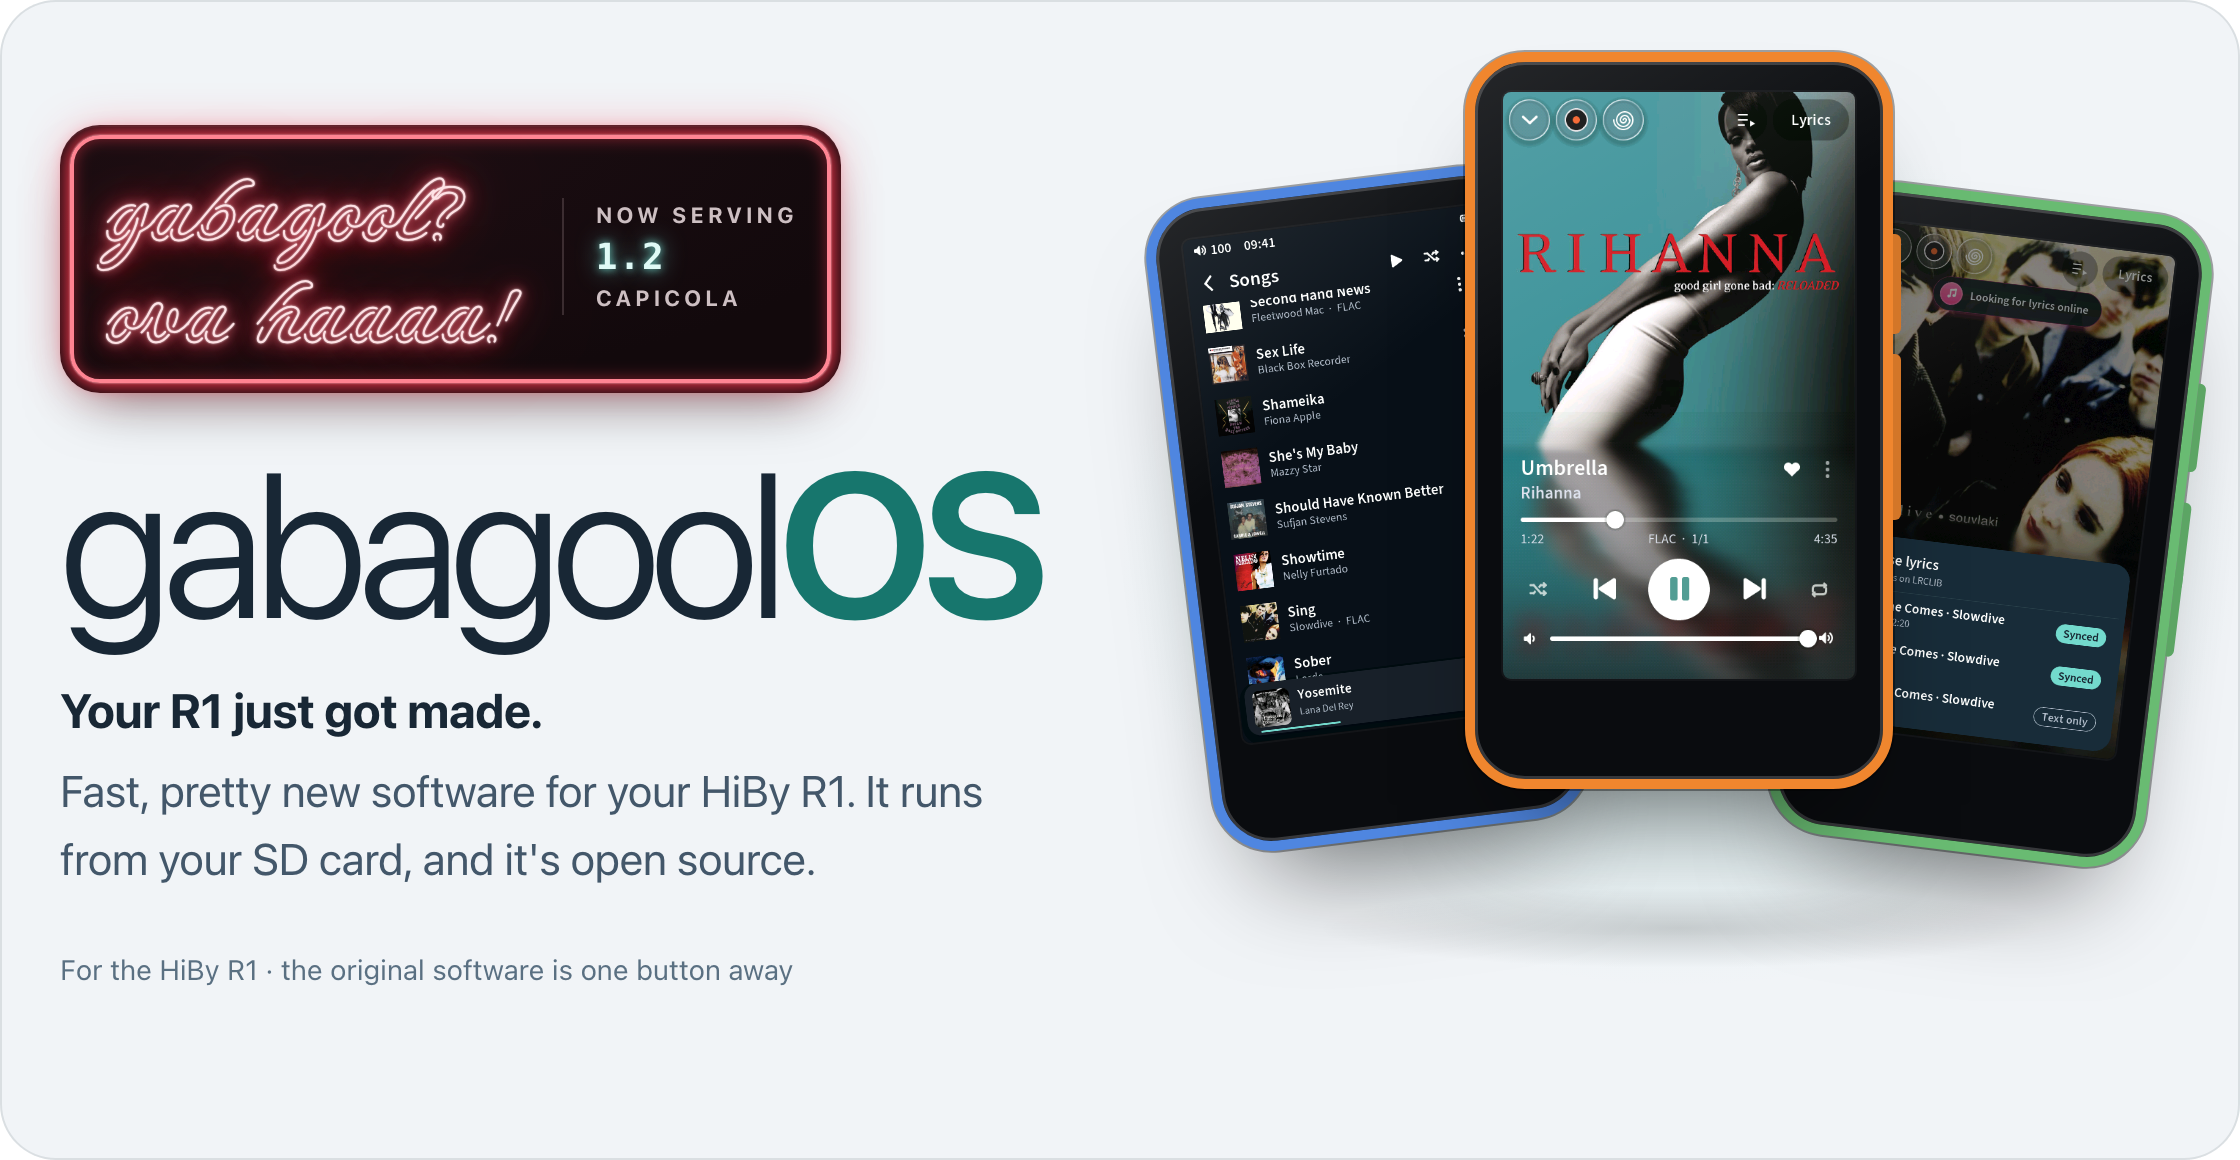
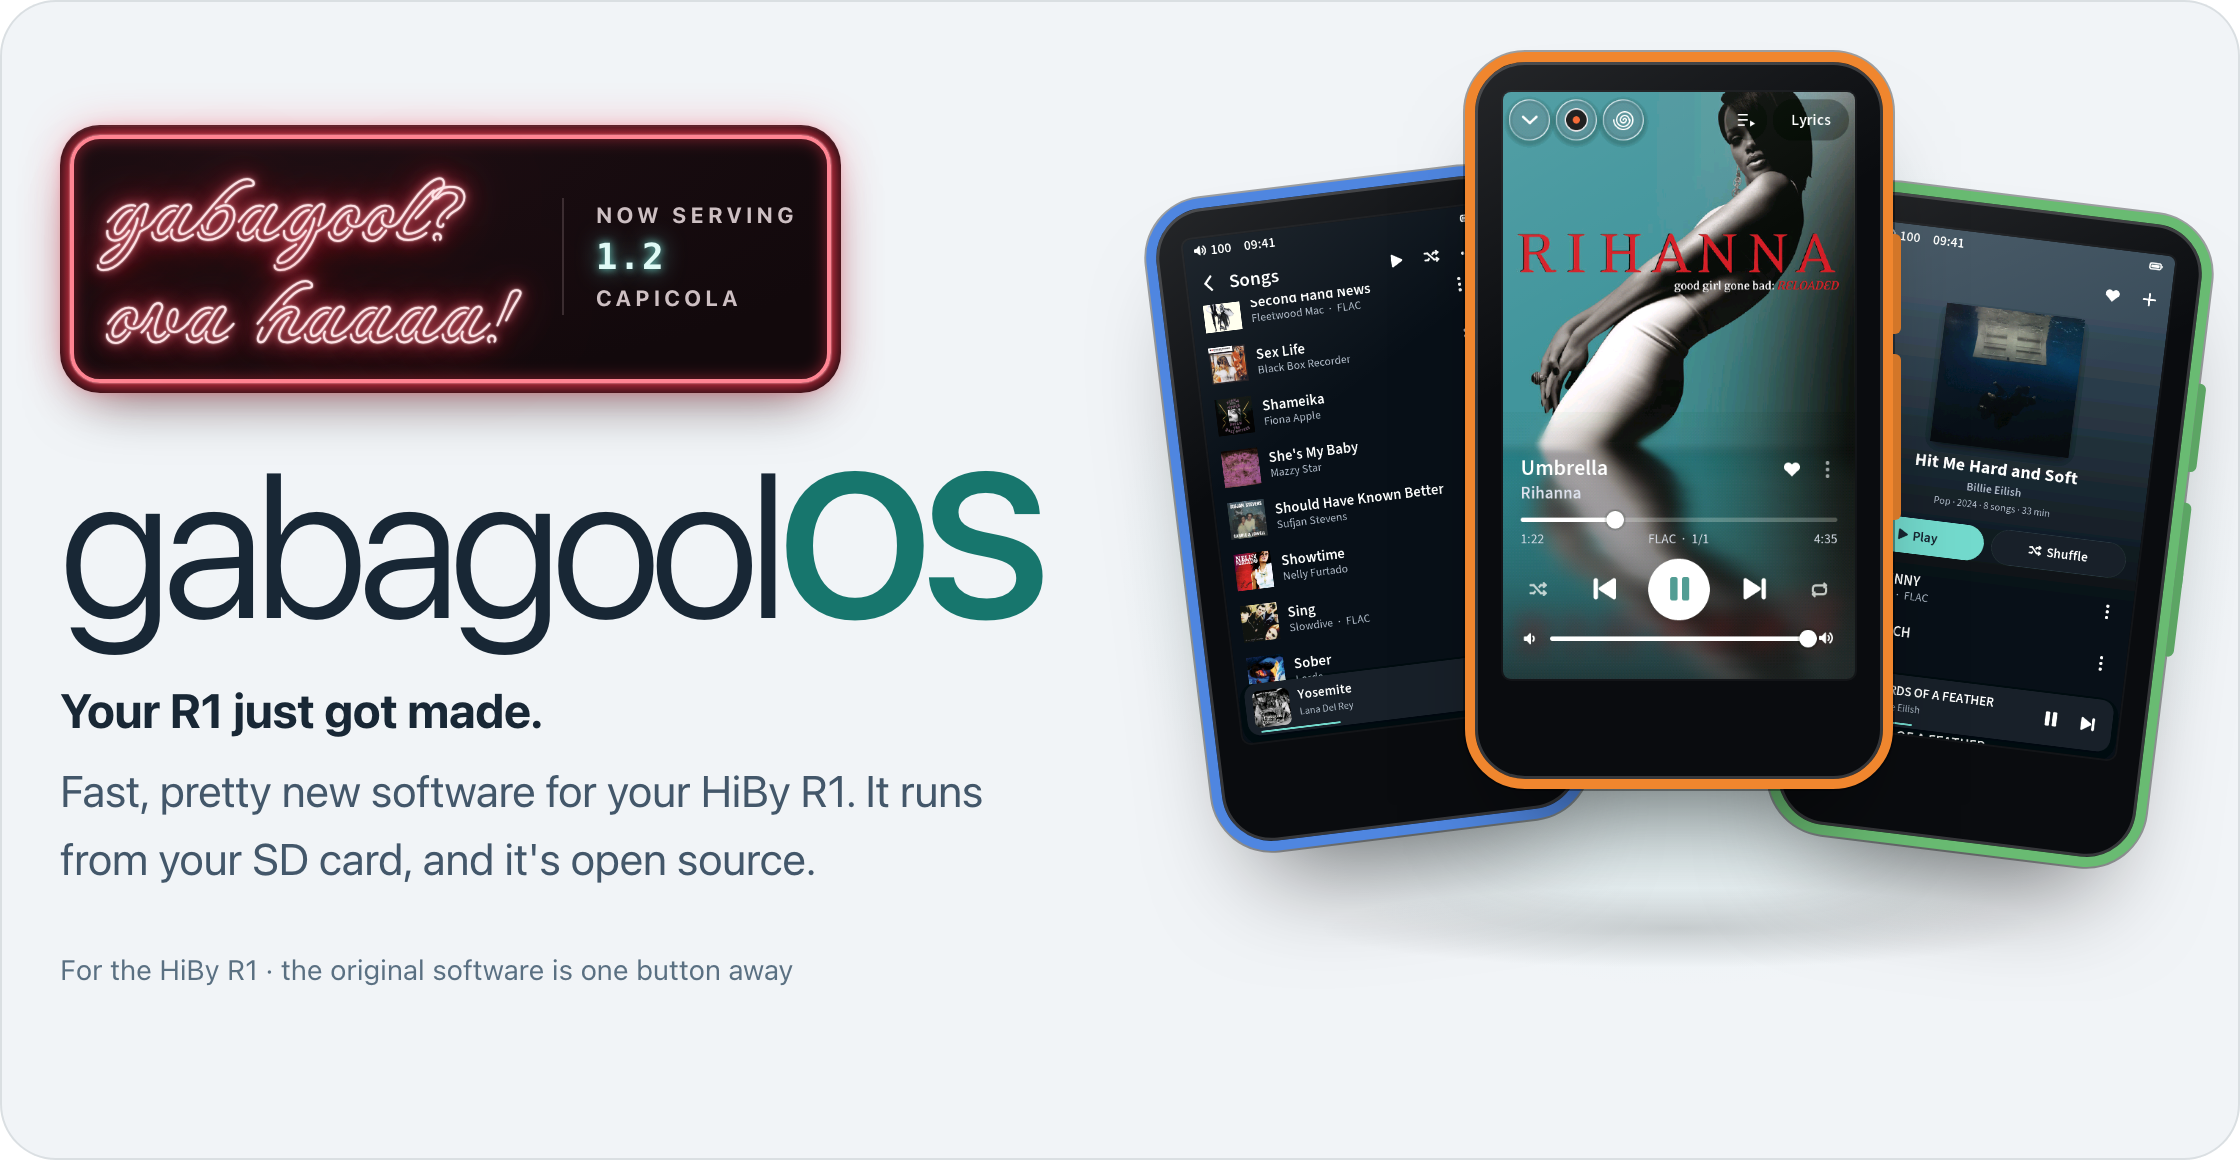
Front page: Billie Eilish's Hit Me Hard and Soft on the right, and installing in three simple steps

Changed region(s): [[0.8438, 0.1862, 0.9688, 0.6517]]

diff --git a/README.md b/README.md
@@ -5,7 +5,7 @@
 <a href="https://github.com/BlueDreams666/gabagoolOS/releases/latest">
 <picture>
   <source media="(prefers-color-scheme: dark)" srcset="assets/hero-dark.png">
-  <img src="assets/hero-light.png" width="880" alt="gabagoolOS 1.2, Capicola. A neon sign reads: gabagool? ova haaaa! Your R1 just got made: fast, pretty new software for your HiBy R1. It runs from your SD card, and it's open source. Beside it, three R1s: the Songs list, Now Playing with Umbrella by Rihanna, and the lyrics picker for Here She Comes by Slowdive.">
+  <img src="assets/hero-light.png" width="880" alt="gabagoolOS 1.2, Capicola. A neon sign reads: gabagool? ova haaaa! Your R1 just got made: fast, pretty new software for your HiBy R1. It runs from your SD card, and it's open source. Beside it, three R1s: the Songs list, Now Playing with Umbrella by Rihanna, and the album Hit Me Hard and Soft by Billie Eilish.">
 </picture>
 </a>
 
@@ -83,19 +83,17 @@ We test every screen so you don't run into anything weird.
 
 ## no funny business
 
-It takes about ten minutes. Each [release](https://github.com/BlueDreams666/gabagoolOS/releases/latest)
-has a step-by-step guide, so give it a read first. The short version:
+Three steps, about ten minutes. Back up your card first, just in case.
 
-1. **Get ready.** Charge your R1, back up your card, and download HiBy's own
-   firmware from their website. That's your safety net.
-2. **Add the boot menu (once).** Copy `GabagoolOS-1.2-boot-menu.upt` to your
-   card, rename it `r1.upt`, then on the R1 go to
-   System > Firmware update > Via SD card.
-3. **Add GabagoolOS.** Unzip `GabagoolOS-1.2-HiBy-R1.zip` onto your card and
-   restart.
+1. **Download** `GabagoolOS-1.2-HiBy-R1.zip` and `GabagoolOS-1.2-boot-menu.upt`
+   from the [latest release](https://github.com/BlueDreams666/gabagoolOS/releases/latest).
+2. **Copy them to your card.** Unzip the zip onto the card. Put the `.upt` file
+   on the card too, and rename it `r1.upt`.
+3. **On the R1,** go to System > Firmware update > Via SD card.
 
-That's it! Your R1 now starts in GabagoolOS. Want the HiBy software instead?
-**Hold Volume Down while you turn it on.**
+Done! Your R1 now starts in GabagoolOS, and from now on it updates itself
+over Wi-Fi. Want the HiBy software instead? **Hold Volume Down while you turn
+it on.** Stuck? The release has a longer guide.
 
 ### changed your mind? forget about it
 
